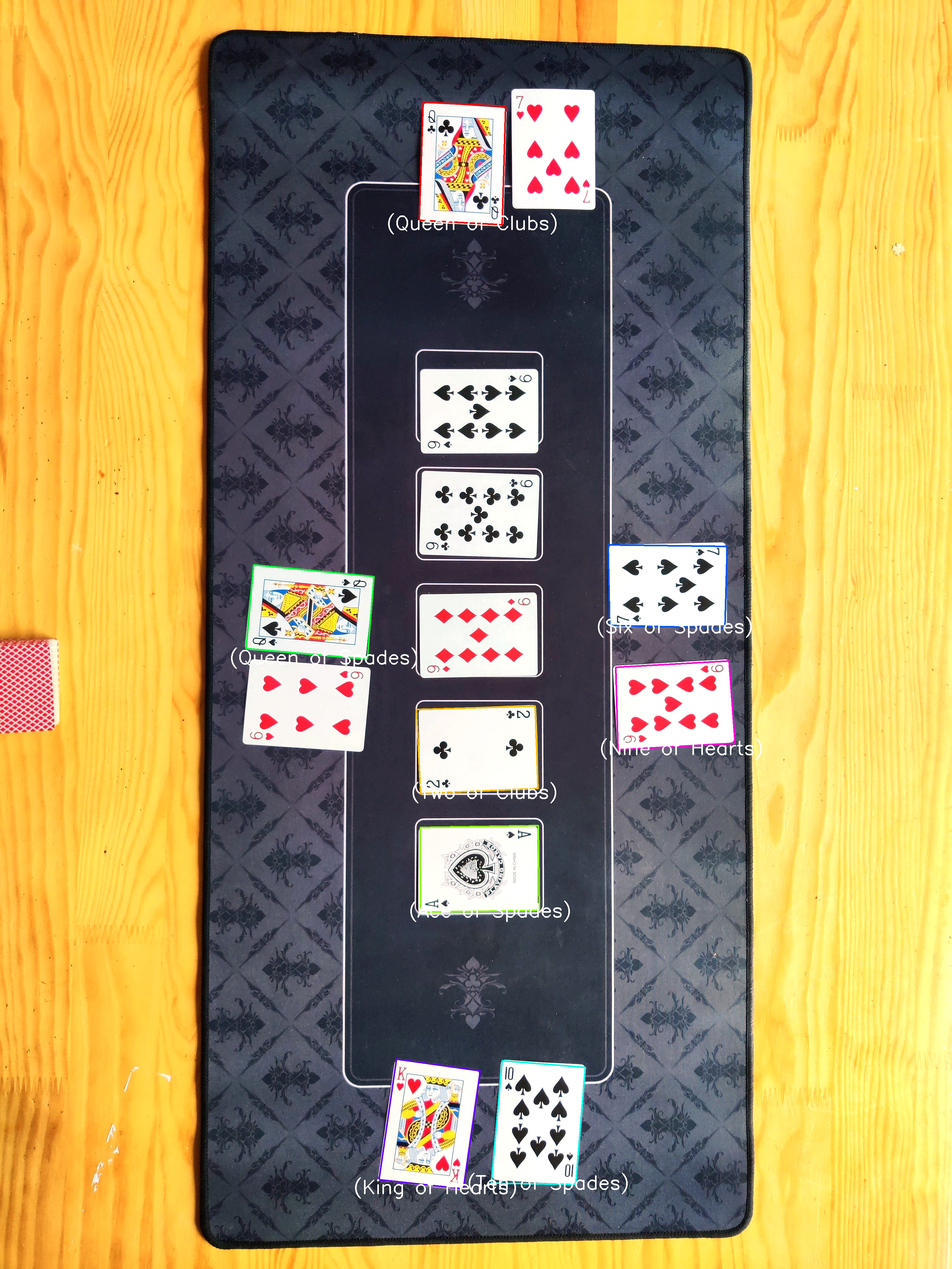
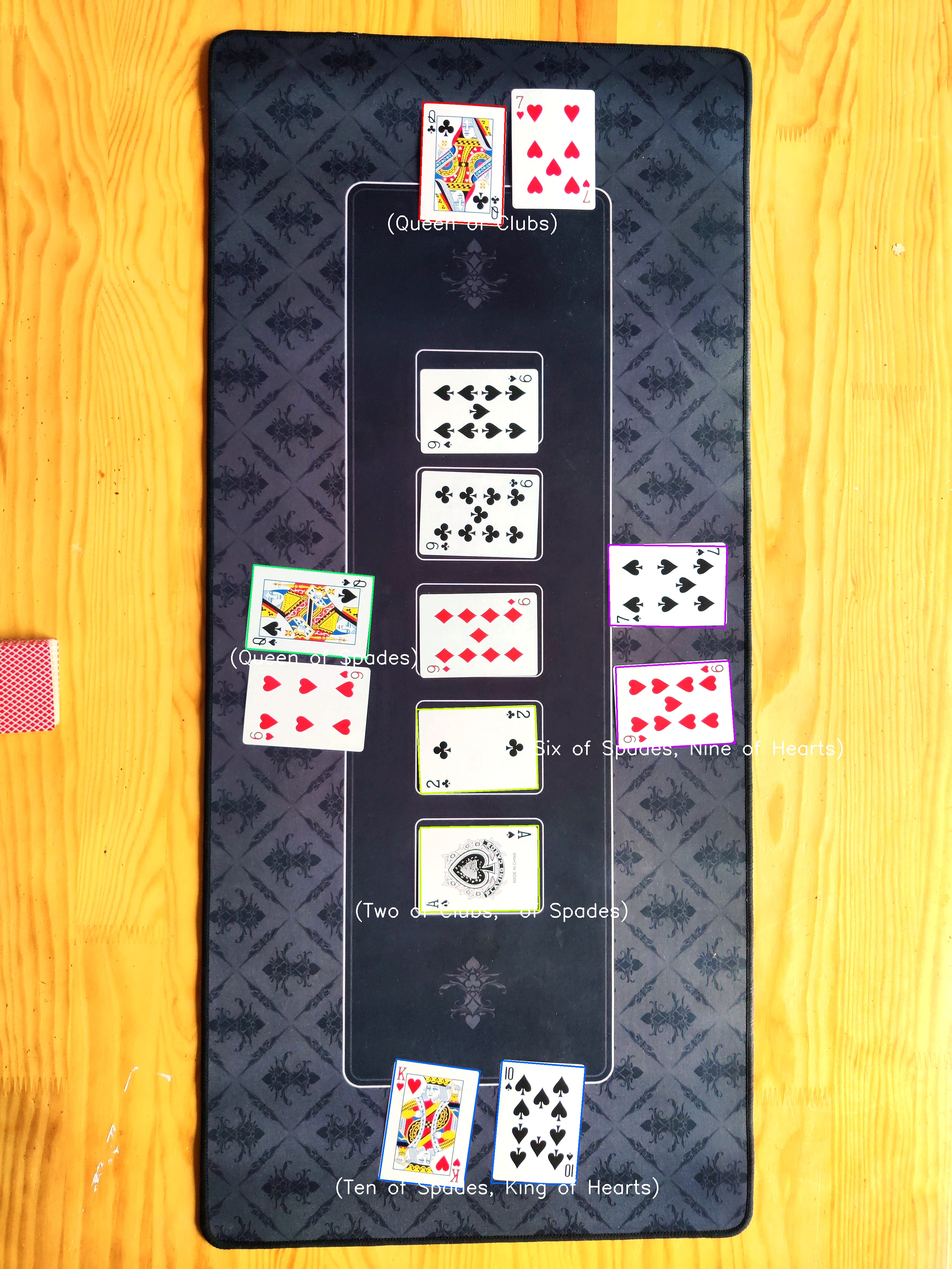
JSON export of cards informations

diff --git a/ComputerVision/PokerVision/Main.cpp b/ComputerVision/PokerVision/Main.cpp
@@ -3,6 +3,7 @@
 
 #include <opencv2/opencv.hpp>
 #include <iostream>
+#include <fstream>
 #include <filesystem>
 #include <string>
 #include <math.h>
@@ -20,7 +21,7 @@ int main(int argc, char** argv)
 {
 
 	std::string configName = "config1";
-	std::string photoName = "photo1";
+	std::string photoName = "table-easy1";
 	if (argc == 2) {
 		photoName = argv[1];
 	}
@@ -31,18 +32,19 @@ int main(int argc, char** argv)
 	}
 
 	Config config(configName);
+	json measures;
 
 	std::string windowName = "card";
 	bool BnWInputs = true;
 
 	// Chargement des images
 	cv::Mat cardsImage = cv::imread("resources/cartes.jpg");
-	if (cardsImage.empty() && config.enableLogs){
+	if (cardsImage.empty() && config.enableLogs) {
 		std::cout << "Could not open or find the card image" << std::endl;
 		system("pause");
 		return -1;
 	}
-	cv::Mat testFile = cv::imread("resources/table-easy1.jpg");
+	cv::Mat testFile = cv::imread("resources/" + photoName + ".jpg");
 	if (testFile.empty() && config.enableLogs) {
 		std::cout << "Could not open or find the image to test" << std::endl;
 		system("pause");
@@ -53,28 +55,69 @@ int main(int argc, char** argv)
 	Image testImage(testFile);
 	testImage.name = "Test image";
 
-	p.divide(testImage.mat, cv::Vec3b(187,218,234));
+	if (config.correctWhiteBalance)
+		p.divide(testImage.mat, cv::Vec3b(187, 218, 234));
 
 	//testImage.convertToHsv();
 
-	cv::Ptr<cv::ORB> imageOrb = cv::ORB::create(config.imageOrbMaxPointCount, 1.2, 8, 1, 0, 2,cv::ORB::FAST_SCORE);
+	cv::Ptr<cv::ORB> imageOrb = cv::ORB::create(config.imageOrbMaxPointCount, 1.2, 8, 1, 0, 2, cv::ORB::FAST_SCORE);
 	testImage.detectAndCompute(imageOrb);
 
-	p.setCardsDataset(cardsImage,4,13);//setup de l'engine
+	p.setCardsDataset(cardsImage, 4, 13);//setup de l'engine
 	p.findCards(testImage);
 	p.removeOverlapingImages(config.overlapDistThreshold);
 	p.groupCards(config.groupingDistance);
-	
+
 	bool showProcessedImages = true;
 	bool showCards = true;
 	bool showPoints = false;
 	bool showText = true;
 	bool showROI = true;
 	bool showBarrycenter = false;
-	if(config.showResult)
-	p.showResult(testImage, showProcessedImages, showCards, showPoints, showText, showROI, showBarrycenter);
+	if (config.showResult) {
+		p.showResult(testImage, showProcessedImages, showCards, showPoints, showText, showROI, showBarrycenter);
+		cv::waitKey(0);
+		cv::destroyAllWindows();
+	}
 
-	cv::waitKey(0);
-	cv::destroyAllWindows();
+
+	std::vector<json> cardsJsonList;
+	for (int i = 0; i < p.cardGroups.size(); i++) {
+		CardGroup& group = p.cardGroups[i];
+		for (int j = 0; j < group.cards.size(); j++) {
+			json cardJson;
+			cardJson["group"] = i;
+			Card& card = group.cards[j];
+			cardJson["suit"] = card.cardValue.suit;//coeur pique etc
+			cardJson["rank"] = card.cardValue.rank;//As 7 Roi etc
+
+			std::vector<json> points;
+			for (int k = 0; k < card.corners.size(); k++) {
+				json corner;
+				corner["x"] = card.corners[k].x;
+				corner["y"] = card.corners[k].y;
+				points.push_back(corner);
+			}
+			cardJson["points"] = points;
+			cardsJsonList.push_back(cardJson);
+		}
+	}
+	measures["cards"] = cardsJsonList;
+
+
+
+	std::string sMeasures = measures.dump(4);
+	std::string outputName = "measures.json";
+	std::ofstream measureFile;
+
+	measureFile.open(outputName, std::ofstream::out | std::ofstream::trunc);
+	if (!measureFile.is_open()) {
+		std::cerr << "Unable to open " + outputName << std::endl;
+	}
+	else {
+		measureFile.write(sMeasures.data(), sMeasures.size());
+		std::cout << "Writing complete!" << std::endl;
+	}
+
 	return 0;
 }

diff --git a/ComputerVision/PokerVision/Config.h b/ComputerVision/PokerVision/Config.h
@@ -4,14 +4,38 @@ class Config
 {
 public:
 	Config(std::string configName);
+
+	//Enables the std::cout logs
 	bool enableLogs = false;//true
+
+	//Shows the resulting image as an OpenCV window
 	bool showResult = false;//true
+
+	//Enables white balance correction
+	bool correctWhiteBalance = false;//true
+
+	//Enable cards brightness and contrast adjustments
+	bool cardBrightnessContrast = false;//true
+
+	//Changes the detection to check only for the pip of the cards
 	bool pipOnly = false;//false
+
+	//The amount of points required to consider a match between a card and the image valid 
 	int nbPointsToMatch = 0;//10
+
+	//The +- angle allowed for the ROI of the cards
 	int angleTolerance = 0;//5
+
+	//The amount of points asked to the ORB to find on the poker game image
 	int imageOrbMaxPointCount = 0;//50000
+
+	//The amount of points asked to the ORB to find on each card
 	int cardOrbMaxPointCount = 0;//2000
+
+	//The distance between cards to consider them to be two cards detected on top of each other (to remove missmatches)
 	int overlapDistThreshold = 0;//150
+
+	//The distance between cards to consider them to be in the same group
 	int groupingDistance = 0;//300
 };
 

diff --git a/ComputerVision/PokerVision/PokerVision.cpp b/ComputerVision/PokerVision/PokerVision.cpp
@@ -35,7 +35,8 @@ void PokerVision::setCardsDataset(const cv::Mat& cardsFile, int width, int heigh
 			CardValue value(CardRank(14 - y), CardSuit(x));
 			Card card(tmp(cardROI),value);
 
-			brightnessContrast(card.mat, 1.3, -15);
+			if(configuration.cardBrightnessContrast)
+				brightnessContrast(card.mat, 1.3, -15);
 			//increaseReadability(card.mat);
 			card.detectAndCompute(cardOrb);
 

diff --git a/ComputerVision/PokerVision/Config.cpp b/ComputerVision/PokerVision/Config.cpp
@@ -15,6 +15,9 @@ Config::Config(std::string configName)
 	enableLogs = j["enableLogs"];
 	showResult = j["showResult"];
 	pipOnly = j["pipOnly"];
+	correctWhiteBalance = j["correctWhiteBalance"];
+	cardBrightnessContrast = j["cardBrightnessContrast"];
+
 	nbPointsToMatch = j["nbPointsToMatch"];
 	angleTolerance = j["angleTolerance"];
 	imageOrbMaxPointCount = j["imageOrbMaxPointCount"];

diff --git a/ComputerVision/PokerVision/CardValue.h b/ComputerVision/PokerVision/CardValue.h
@@ -10,6 +10,7 @@ enum CardSuit {
 };
 
 enum CardRank {
+	Ace = 1,
 	Two = 2,
 	Three = 3,
 	Four = 4,
@@ -21,8 +22,7 @@ enum CardRank {
 	Ten = 10,
 	Jack = 11,
 	Queen = 12,
-	King = 13,
-	Ace = 14
+	King = 13
 };
 
 struct CardValue {
